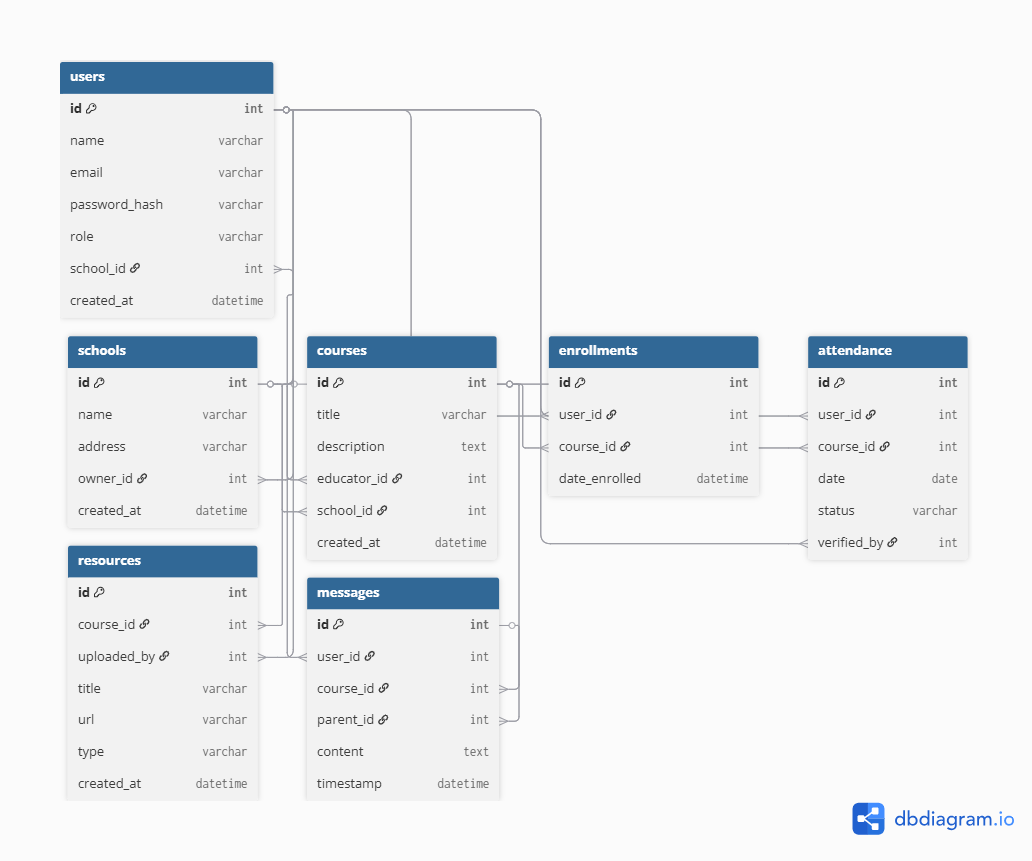
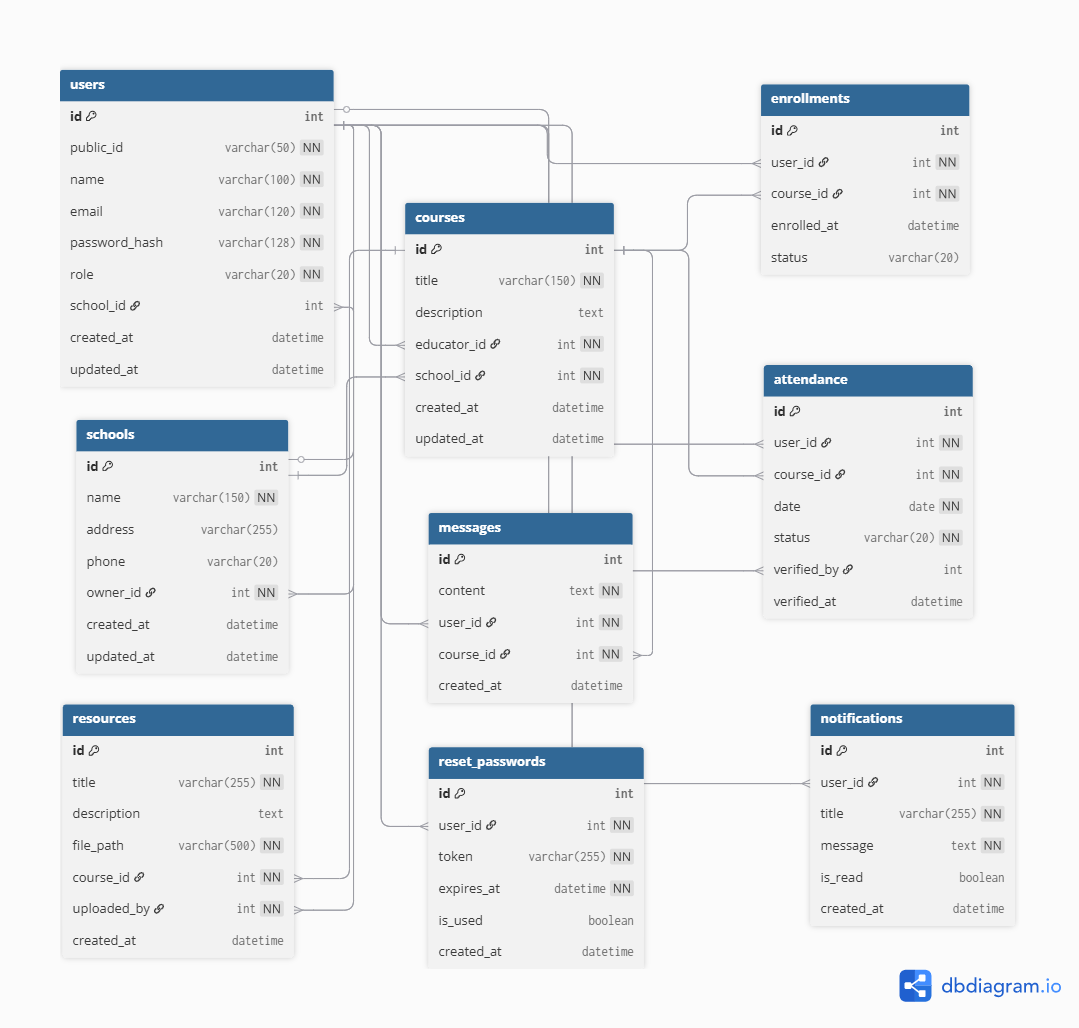
Update schema diagram and documentation

diff --git a/documents/schema.md b/documents/schema.md
@@ -1,7 +1,7 @@
-# Database Schema (Draft)
+# Database Schema
 
-This document describes the database schema for the **Jifunze Project**.  
-It provides an overview of the entities, their attributes, and relationships, aligned with the MVP features.
+This document describes the database schema for the **Jifunze Platform**.
+It provides an overview of the entities, their attributes, and relationships.
 
 ---
 
@@ -13,13 +13,139 @@ It provides an overview of the entities, their attributes, and relationships, al
 
 ## Tables
 
-### 1. Schools
-Represents independent schools that exist on the platform.  
-- **id** (int, PK) – Unique identifier.  
-- **name** (varchar) – School name.  
-- **address** (varchar) – Physical address or location.  
+### 1. Users
+Represents all users of the platform (students, educators, managers).  
+- **id** (int, PK) – Primary key.  
+- **public_id** (varchar(50)) – Public unique identifier.  
+- **name** (varchar(100)) – User's full name.  
+- **email** (varchar(120)) – Unique email address.  
+- **password_hash** (varchar(128)) – Hashed password.  
+- **role** (enum) – User role (student, educator, manager).  
+- **school_id** (int, FK → schools.id) – Reference to the user's school.  
+- **created_at** (datetime) – When the user was created.  
+- **updated_at** (datetime) – When the user was last updated.  
+
+### 2. Schools
+Represents educational institutions on the platform.  
+- **id** (int, PK) – Primary key.  
+- **name** (varchar(150)) – School name.  
+- **address** (varchar(255)) – Physical address.  
+- **phone** (varchar(20)) – Contact number.  
 - **owner_id** (int, FK → users.id) – School owner/manager.  
 - **created_at** (datetime) – When the school was created.  
+- **updated_at** (datetime) – When the school was last updated.  
+
+### 3. Courses
+Represents courses offered by educators.  
+- **id** (int, PK) – Primary key.  
+- **title** (varchar(150)) – Course title.  
+- **description** (text) – Course description.  
+- **educator_id** (int, FK → users.id) – Course instructor.  
+- **school_id** (int, FK → schools.id) – School offering the course.  
+- **created_at** (datetime) – When the course was created.  
+- **updated_at** (datetime) – When the course was last updated.  
+
+### 4. Enrollments
+Tracks student enrollments in courses.  
+- **id** (int, PK) – Primary key.  
+- **user_id** (int, FK → users.id) – Enrolled student.  
+- **course_id** (int, FK → courses.id) – Course being enrolled in.  
+- **enrolled_at** (datetime) – When the enrollment was created.  
+- **status** (varchar(20)) – Enrollment status (active, completed, dropped).  
+
+### 5. Resources
+Educational resources uploaded for courses.  
+- **id** (int, PK) – Primary key.  
+- **title** (varchar(255)) – Resource title.  
+- **description** (text) – Resource description.  
+- **file_path** (varchar(500)) – Path to the uploaded file.  
+- **course_id** (int, FK → courses.id) – Associated course.  
+- **uploaded_by** (int, FK → users.id) – User who uploaded the resource.  
+- **created_at** (datetime) – When the resource was uploaded.  
+
+### 6. Messages
+Communication between users within courses.  
+- **id** (int, PK) – Primary key.  
+- **content** (text) – Message content.  
+- **user_id** (int, FK → users.id) – Sender of the message.  
+- **course_id** (int, FK → courses.id) – Associated course.  
+- **created_at** (datetime) – When the message was sent.  
+
+### 7. Attendance
+Tracks student attendance in courses.  
+- **id** (int, PK) – Primary key.  
+- **user_id** (int, FK → users.id) – Student being marked.  
+- **course_id** (int, FK → courses.id) – Associated course.  
+- **date** (date) – Date of attendance.  
+- **status** (varchar(20)) – Attendance status (present, absent, late).  
+- **verified_by** (int, FK → users.id) – Staff who verified attendance.  
+- **verified_at** (datetime) – When attendance was verified.  
+
+### 8. ResetPasswords
+Manages password reset tokens.  
+- **id** (int, PK) – Primary key.  
+- **user_id** (int, FK → users.id) – User requesting reset.  
+- **token** (varchar(255)) – Unique reset token.  
+- **expires_at** (datetime) – Token expiration time.  
+- **is_used** (boolean) – Whether the token has been used.  
+- **created_at** (datetime) – When the token was created.  
+
+### 9. Notifications
+System notifications for users.  
+- **id** (int, PK) – Primary key.  
+- **user_id** (int, FK → users.id) – Recipient of the notification.  
+- **title** (varchar(255)) – Notification title.  
+- **message** (text) – Notification content.  
+- **is_read** (boolean) – Whether the notification has been read.  
+- **created_at** (datetime) – When the notification was created.  
+
+---
+
+## Relationships
+
+1. **Users**
+   - One-to-Many with Schools (owner)
+   - One-to-Many with Courses (educator)
+   - One-to-Many with Enrollments
+   - One-to-Many with Messages
+   - One-to-Many with Resources (uploader)
+   - One-to-Many with Attendance (as both student and verifier)
+
+2. **Schools**
+   - Many-to-One with Users (owner)
+   - One-to-Many with Users (members)
+   - One-to-Many with Courses
+
+3. **Courses**
+   - Many-to-One with Schools
+   - Many-to-One with Users (educator)
+   - One-to-Many with Enrollments
+   - One-to-Many with Resources
+   - One-to-Many with Messages
+   - One-to-Many with Attendance
+
+4. **Enrollments**
+   - Many-to-One with Users (student)
+   - Many-to-One with Courses
+
+5. **Resources**
+   - Many-to-One with Courses
+   - Many-to-One with Users (uploader)
+
+6. **Messages**
+   - Many-to-One with Users (sender)
+   - Many-to-One with Courses
+
+7. **Attendance**
+   - Many-to-One with Users (student)
+   - Many-to-One with Courses
+   - Many-to-One with Users (verifier)
+
+8. **ResetPasswords**
+   - Many-to-One with Users
+
+9. **Notifications**
+   - Many-to-One with Users
 
 ---
 
